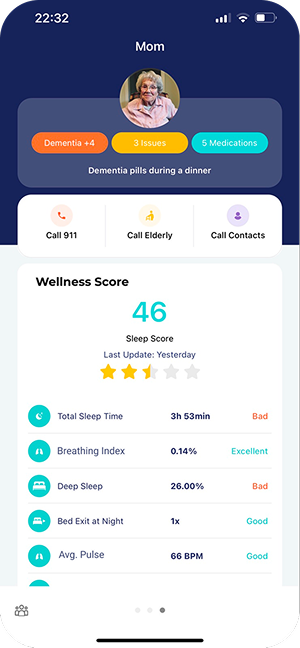
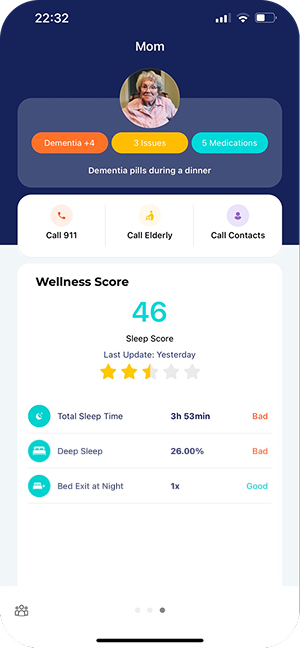
New chnages

diff --git a/src/components/Ai-care/AiHero.jsx b/src/components/Ai-care/AiHero.jsx
@@ -2,7 +2,7 @@
 
 import React from "react";
 import Image from "next/image";
-import hero from "@/assets/ai-care/heroImg.png";
+import hero from "@/assets/ai-care/heroImage.png";
 import bg from "@/assets/ai-care/heroBg.png";
 import mobbg from "@/assets/ai-care/mobbg.png";
 import logo from "@/assets/ai-care/logo.png";
@@ -37,11 +37,16 @@ const AiHero = () => {
           </div>
 
           {/* Image Section */}
+          <div className="flex justify-center h-auto rounded-2xl overflow-hidden mt-4">
+            <Image
+              src={hero}
+              alt="AI Guardian"
+              width={840}
+              height={495}
+              className="w-[840px] h-[495px] object-cover tab:rounded-b-[60px] sm:rounded-b-[40px]"
+            />
 
-          <div className="flex justify-center h-auto rounded-2xl overflow-hidden">
-            {/* <Image src={hero} alt="AI Guardian" width={840} height={495} /> */}
-
-            <video
+            {/* <video
               autoPlay
               loop
               muted
@@ -53,7 +58,7 @@ const AiHero = () => {
                 type="video/mp4"
               />
               Your browser does not support the video tag.
-            </video>
+            </video> */}
           </div>
         </div>
       </section>
@@ -92,7 +97,15 @@ const AiHero = () => {
               </h6>
             </div>
           </div>
-          <video
+          <Image
+            src={hero}
+            alt="AI Guardian"
+            width={840}
+            height={495}
+            className=" w-full h-auto object-cover tab:rounded-[40px] sm:rounded-[20px] absolute top-[30%] sm:top-[35%] left-0 mt-4"
+          />
+
+          {/* <video
             autoPlay
             loop
             muted
@@ -101,7 +114,7 @@ const AiHero = () => {
           >
             <source src="/assets/ai-care/video/aivideo.mp4" type="video/mp4" />
             Your browser does not support the video tag.
-          </video>
+          </video> */}
         </div>
       </section>
     </>

diff --git a/src/components/Ai-care/AiMobileApp.jsx b/src/components/Ai-care/AiMobileApp.jsx
@@ -26,9 +26,9 @@ const appScreens = [
   { title: "Location", image: mob2 },
   { title: "Sleep Insights", image: mob3 },
   { title: "Sleep Events", image: mob4 },
-  { title: "Pulse Rate", image: mob5 },
+  // { title: "Pulse Rate", image: mob5 },
   { title: "Wellness Score", image: mob6 },
-  { title: "Breathing Rate", image: mob7 },
+  // { title: "Breathing Rate", image: mob7 },
   { title: "Daytime Activity", image: mob8 },
 ];
 
@@ -45,16 +45,23 @@ const AiMobileApp = () => {
   };
 
   return (
-    <section className="w-full flex justify-center items-center px-6 sm:px-0 py-16 bg-[#E4E3F8] overflow-hidden">
-      <div className="w-full max-w-[1710px] flex flex-col gap-[98px] tab:gap-[60px] sm:gap-[30px]">
+    <section className="w-full flex justify-center items-center px-6 sm:px-0 py-16 bg-[#E4E3F8] overflow-hidden ">
+      <div className="w-full max-w-[1710px] flex flex-col gap-[98px] tab:gap-[60px] sm:gap-[30px] justify-center items-center">
         <div className="text-center">
-          <h1 className="text-5xl font-bold text-[#16065F]">Mobile App</h1>
-          <p className="text-[30px] sm:text-[24px]">for Full Control</p>
+          <h1 className="text-5xl md:text-3xl font-bold text-[#16065F]">
+            Mobile App
+          </h1>
+          <p className="text-[30px] md:text-xl sm:text-[22px]">
+            For Full Control
+          </p>
         </div>
 
-        <div className="grid sm:hidden grid-cols-4 gap-20 tab:gap-10">
+        <div className="grid sm:hidden grid-cols-3 gap-20 max-w-[1200px] tab:gap-6 justify-items-center items-center">
           {appScreens.map((screen, index) => (
-            <div key={index} className="flex flex-col items-center gap-4">
+            <div
+              key={index}
+              className="flex w-fit flex-col items-center gap-4 "
+            >
               <h2 className="text-2xl md:text-[14px] font-light italic">
                 {screen.title}
               </h2>

diff --git a/src/app/account/billing-information/index.jsx b/src/app/account/billing-information/index.jsx
@@ -51,7 +51,6 @@ function Page() {
       const details = await getTransactionDetails(stripeCustomerId);
 
       setTransactionDetails(details); // Store the fetched transaction details
-      console.log(details);
     } catch (error) {
       console.error("Failed to fetch transaction details:", error);
     }
@@ -75,7 +74,6 @@ function Page() {
       const stripeCustomerId = customerData.id;
       const details = await getAllPaymentMethod(stripeCustomerId);
 
-      // Check if the response has the correct structure
       if (details) {
         const formattedPaymentMethods = details.map((method) => ({
           id: method.id,
@@ -395,7 +393,7 @@ function Page() {
               </div>
 
               <div className="flex flex-col gap-[0.75rem]">
-                <Suspense fallback={<div>Loading feed...</div>}>
+                <Suspense fallback={<div>Loading...</div>}>
                   {paymentMethods.length > 0 ? (
                     paymentMethods.map((method) => (
                       <PaymentMethodCard

diff --git a/src/components/Ai-care/AiServices.jsx b/src/components/Ai-care/AiServices.jsx
@@ -47,8 +47,10 @@ const AiServices = () => {
       <div className="w-full max-w-[1710px] flex flex-col gap-[98px] tab:gap-[60px] sm:gap-[30px]">
         {/* text */}
         <div className="w-full text-center">
-          <h1 className="text-5xl text-[#16065F] font-bold">Peace of Mind</h1>
-          <h1 className="text-[30px]">Services</h1>
+          <h1 className="text-5xl text-[#16065F] md:text-3xl font-bold">
+            Peace of Mind
+          </h1>
+          <h1 className="text-[30px] md:text-2xl">Services</h1>
         </div>
         {/* cards */}
         <div className="flex tab:hidden sm:flex-col items-center justify-center gap-[60px] tab:gap-5">

diff --git a/src/components/layouts/Navbar/index.jsx b/src/components/layouts/Navbar/index.jsx
@@ -39,7 +39,7 @@ export default function Header() {
     <>
       {/*<!-- Component: Navbar with CTA --> */}
       <header className="relative z-20 w-full  bg-white/90 after:absolute after:left-0 after:top-full after:z-10 after:block after:h-px after:w-full">
-        <div className="relative mx-auto w-full py-12 xxl:py-7 md:py-6 tab:py-2 px-6 max-w-[1720px]">
+        <div className="relative mx-auto w-full py-2 xxl:py-0  md:py-4 sm:py-4 tab:py-2 px-6 max-w-[1720px]">
           <nav className="flex h-[6.5rem] tab:h-auto md:pt-0 items-stretch justify-between font-medium text-[#2C3142]">
             {/*      <!-- Brand logo --> */}
             <a

diff --git a/src/components/Ai-care/AiSpecifications.jsx b/src/components/Ai-care/AiSpecifications.jsx
@@ -27,8 +27,10 @@ const AiSpecifications = () => {
       <div className="w-full max-w-[1416px] flex items-center justify-center flex-col gap-[68px] relative">
         {/* Title Section */}
         <div className="w-full text-center">
-          <h1 className="text-5xl font-bold text-[#16065F]">Specifications</h1>
-          <h3 className="text-[30px]">AI Care Guardian</h3>
+          <h1 className="text-5xl font-bold text-[#16065F] md:text-3xl">
+            Specifications
+          </h1>
+          <h3 className="text-[30px] md:text-2xl">AI Care Guardian</h3>
         </div>
 
         {/* 2nd div */}

diff --git a/src/components/Ai-care/AiCards.jsx b/src/components/Ai-care/AiCards.jsx
@@ -33,11 +33,7 @@ const cardData = [
     title: "Safety & Daily Insights",
     description:
       "Your loved one is safe, day and night. Their well-being is supported with continuous insights, so you can feel confident.",
-    features: [
-      "Pulse & Breathing Insights",
-      "Sleep Insights",
-      "Detection of Unusual Activity",
-    ],
+    features: ["Sleep Insights", "Detection of Unusual Activity"],
     image: cardimg2,
   },
   {

diff --git a/src/components/Ai-care/AiNotifications.jsx b/src/components/Ai-care/AiNotifications.jsx
@@ -1,6 +1,6 @@
 import React from "react";
 import Image from "next/image";
-import heroimg from "@/assets/ai-care/notificationBg.png";
+import heroimg from "@/assets/ai-care/ntfctBG.png";
 
 const AiNotifications = () => {
   return (
